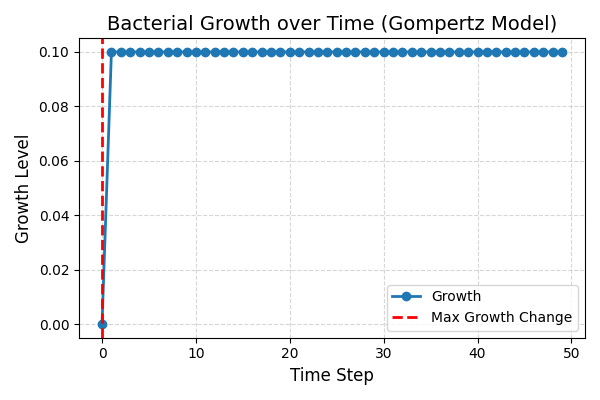
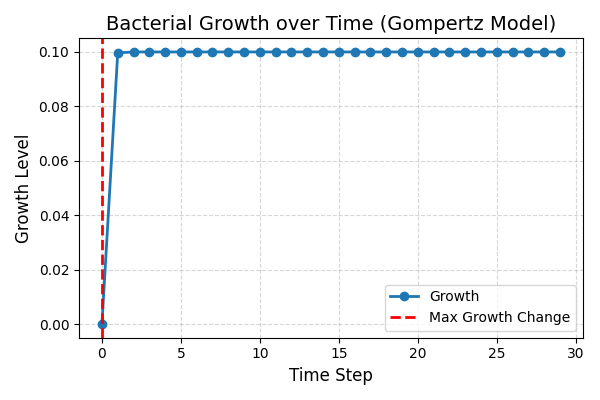
name changes

diff --git a/growth_model/templates/index.html b/growth_model/templates/index.html
@@ -49,7 +49,7 @@
         
         <label for="p_density">Plateau Density:</label>
         <input type="range" id="p_density" name="p_density" placeholder="10" min="1" max="1000" value="1000">
-        <span id="p_density_val">800</span><br><br>
+        <span id="p_density_val">1000</span><br><br>
         
         <label for="g_rate">Growth Rate:</label>
         <input type="range" id="g_rate" name="g_rate" placeholder="0.2" min="0.1" max="1" step="0.01" value="0.15">

diff --git a/growth_model/growth_model/utils.py b/growth_model/growth_model/utils.py
@@ -63,12 +63,12 @@ def create_data(model):
     time_steps = []
     densitys = []
     
-    for t in range(0, 50):
+    for t in range(0, 30):
         time_steps.append(t)
         densitys.append(model.evaluate(t))
 
     growth_data = pd.DataFrame({
-        "time_step": time_steps,
+        "time step": time_steps,
         "density": densitys
     })
 
@@ -91,12 +91,12 @@ def basic_plotting(growth_data, greatest_growth_index):
     image_path = os.path.join(os.path.dirname(__file__), "../static/images", "scatter_growth.png")
     
     plt.figure(figsize=(6, 4))
-    plt.plot(growth_data["time_step"], growth_data["density"], 
+    plt.plot(growth_data["time step"], growth_data["density"], 
              marker='o', color='tab:blue', linestyle='-', linewidth=2, markersize=6, label="Growth")
     
     # Add vertical dotted line at the point of greatest change
     plt.axvline(
-        x=growth_data["time_step"][greatest_growth_index], 
+        x=growth_data["time step"][greatest_growth_index], 
         color='red', linestyle='--', linewidth=2, label='Max Growth Change'
     )
     
@@ -115,7 +115,7 @@ def run_model(ininital_density,platau_density,growth_rate):
     platau_density = float(platau_density)
     growth_rate = float(growth_rate)
     
-    model=GompertzGrowth(ininital_density,platau_density,growth_rate,temperature=100,Tmin=5,Tmax=45,c=0.01)
+    model=GompertzGrowth(ininital_density,platau_density,growth_rate,temperature=90,Tmin=5,Tmax=45,c=0.01)
     growth_data = create_data(model)
     greatest_growth_index = get_highest_growth_step(growth_data)
     
